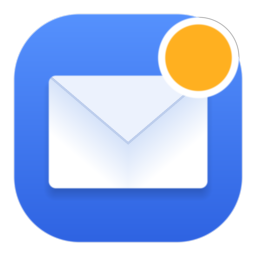
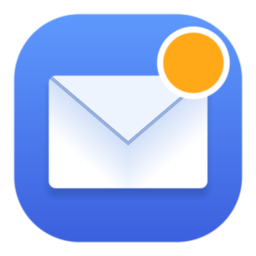
chore(desktop): 앱 아이콘 다듬기 (배지 클리핑 제거 + 팔레트/접힘선)
make_icons.py: BG_BOTTOM 인디고 시프트, 우상단 배지를 링 포함 배경
둥근사각 안으로 완전히 이동해 상단 클리핑 제거, 뚜껑 접힘선(FLAP_EDGE)
또렷하게. envelope 모티프 유지. icon.png/tray.png/icon.ico 재생성.

Claude-Session: https://claude.ai/code/session_01MxUb1vuUkGt7rQAye99e7w

diff --git a/desktop/assets/make_icons.py b/desktop/assets/make_icons.py
@@ -11,13 +11,13 @@ import zlib
 from pathlib import Path
 
 # 팔레트 (RGB)
-BG_TOP = (88, 148, 255)      # 밝은 파랑
-BG_BOTTOM = (44, 96, 224)    # 짙은 파랑
+BG_TOP = (96, 156, 255)      # 밝은 파랑
+BG_BOTTOM = (58, 92, 220)    # 짙은 파랑 (살짝 인디고)
 ENVELOPE = (255, 255, 255)
-ENVELOPE_SHADE = (214, 227, 249)   # 봉투 뚜껑 아래 몸통 음영
-FLAP = (236, 242, 253)      # 뚜껑 (살짝 밝은 회백)
-FLAP_EDGE = (188, 205, 236)  # 뚜껑 접힘선
-BADGE = (255, 176, 32)      # 우상단 강조 배지 (앰버)
+ENVELOPE_SHADE = (208, 223, 248)   # 봉투 뚜껑 아래 몸통 음영
+FLAP = (238, 244, 254)      # 뚜껑 (살짝 밝은 회백)
+FLAP_EDGE = (150, 176, 222)  # 뚜껑 접힘선 (더 또렷하게)
+BADGE = (255, 168, 24)      # 우상단 강조 배지 (앰버)
 BADGE_RING = (255, 255, 255)
 
 SS = 4  # 슈퍼샘플 배율
@@ -63,9 +63,9 @@ def _render(size):
     # 봉투 그림자 오프셋
     sh_dx, sh_dy, sh_blur = S * 0.0, S * 0.03, S * 0.045
 
-    # 우상단 강조 배지
-    badge_cx, badge_cy, badge_r = S * 0.775, S * 0.225, S * 0.13
-    ring_r = badge_r + S * 0.028
+    # 우상단 강조 배지 (링 포함 전체가 배경 둥근사각 안에 완전히 들어오도록)
+    badge_cx, badge_cy, badge_r = S * 0.755, S * 0.245, S * 0.118
+    ring_r = badge_r + S * 0.024
 
     hi = [[(0, 0, 0, 0)] * S for _ in range(S)]
     for j in range(S):
@@ -95,9 +95,9 @@ def _render(size):
                 cx = ex + ew / 2
                 edge = abs(i - cx) / (ew / 2)
                 flap_y = ey + flap_h * (1 - edge)
-                if j <= flap_y - S * 0.006:
+                if j <= flap_y - S * 0.009:
                     col = FLAP
-                elif j <= flap_y + S * 0.006:
+                elif j <= flap_y + S * 0.009:
                     col = FLAP_EDGE
                 else:
                     # 몸통: 위쪽은 살짝 음영, 아래로 갈수록 순백
